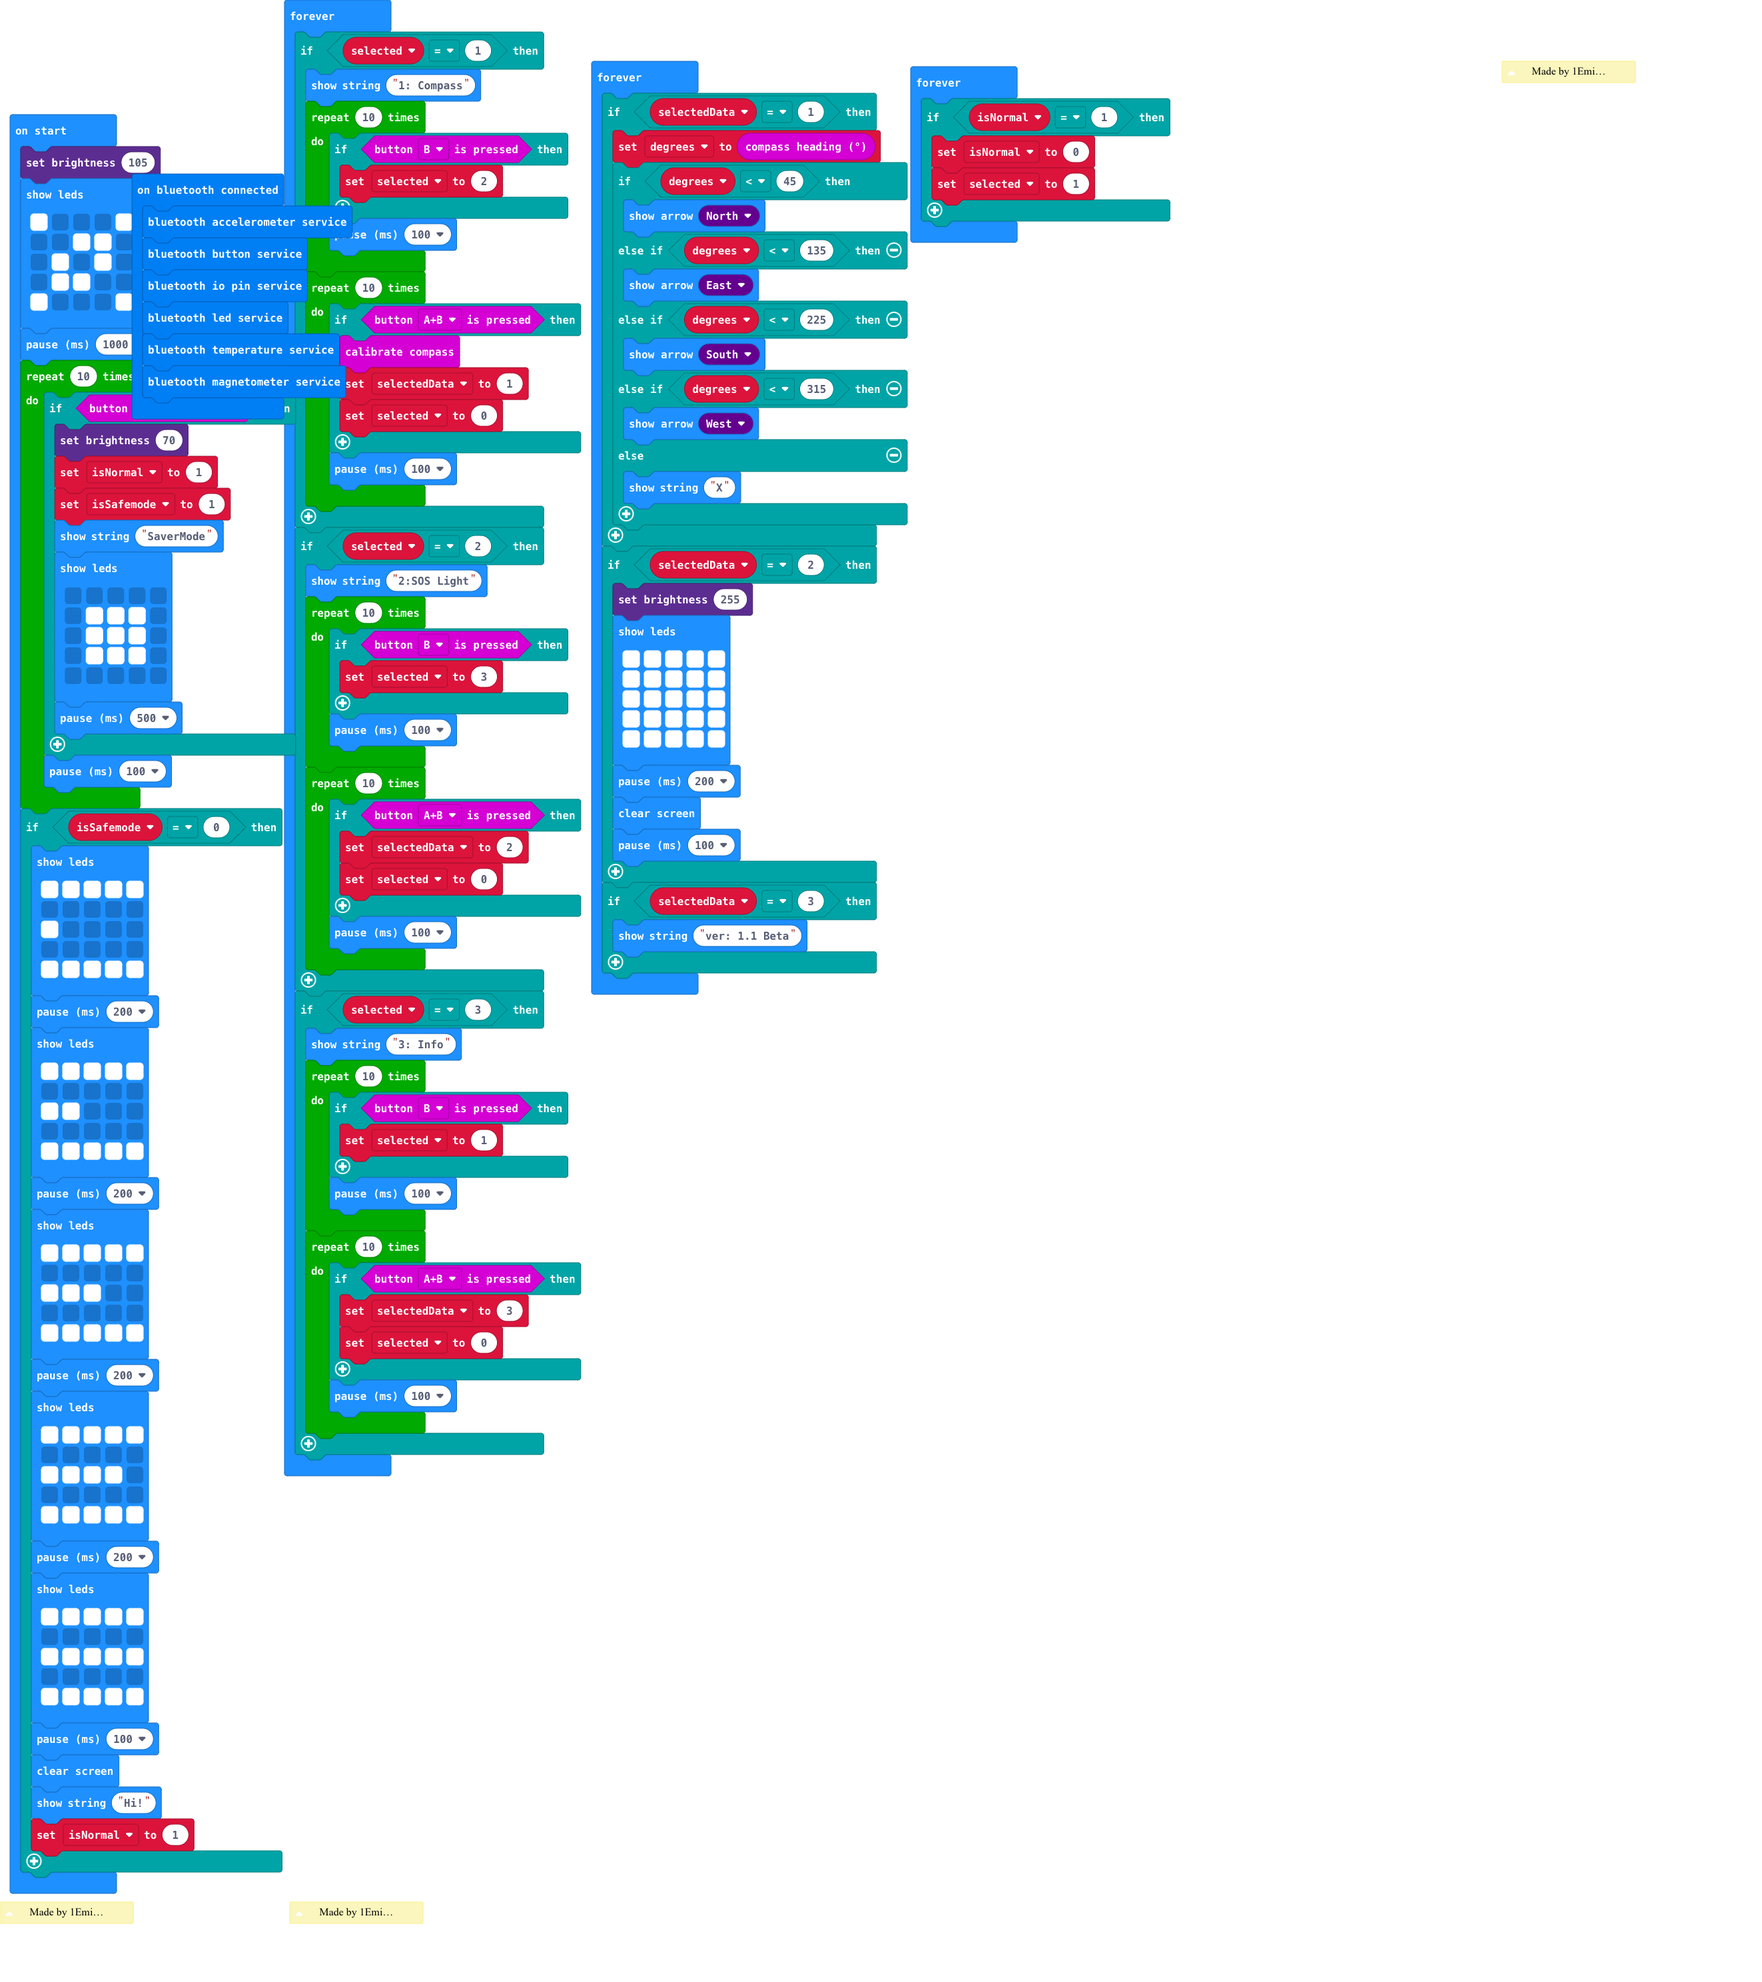
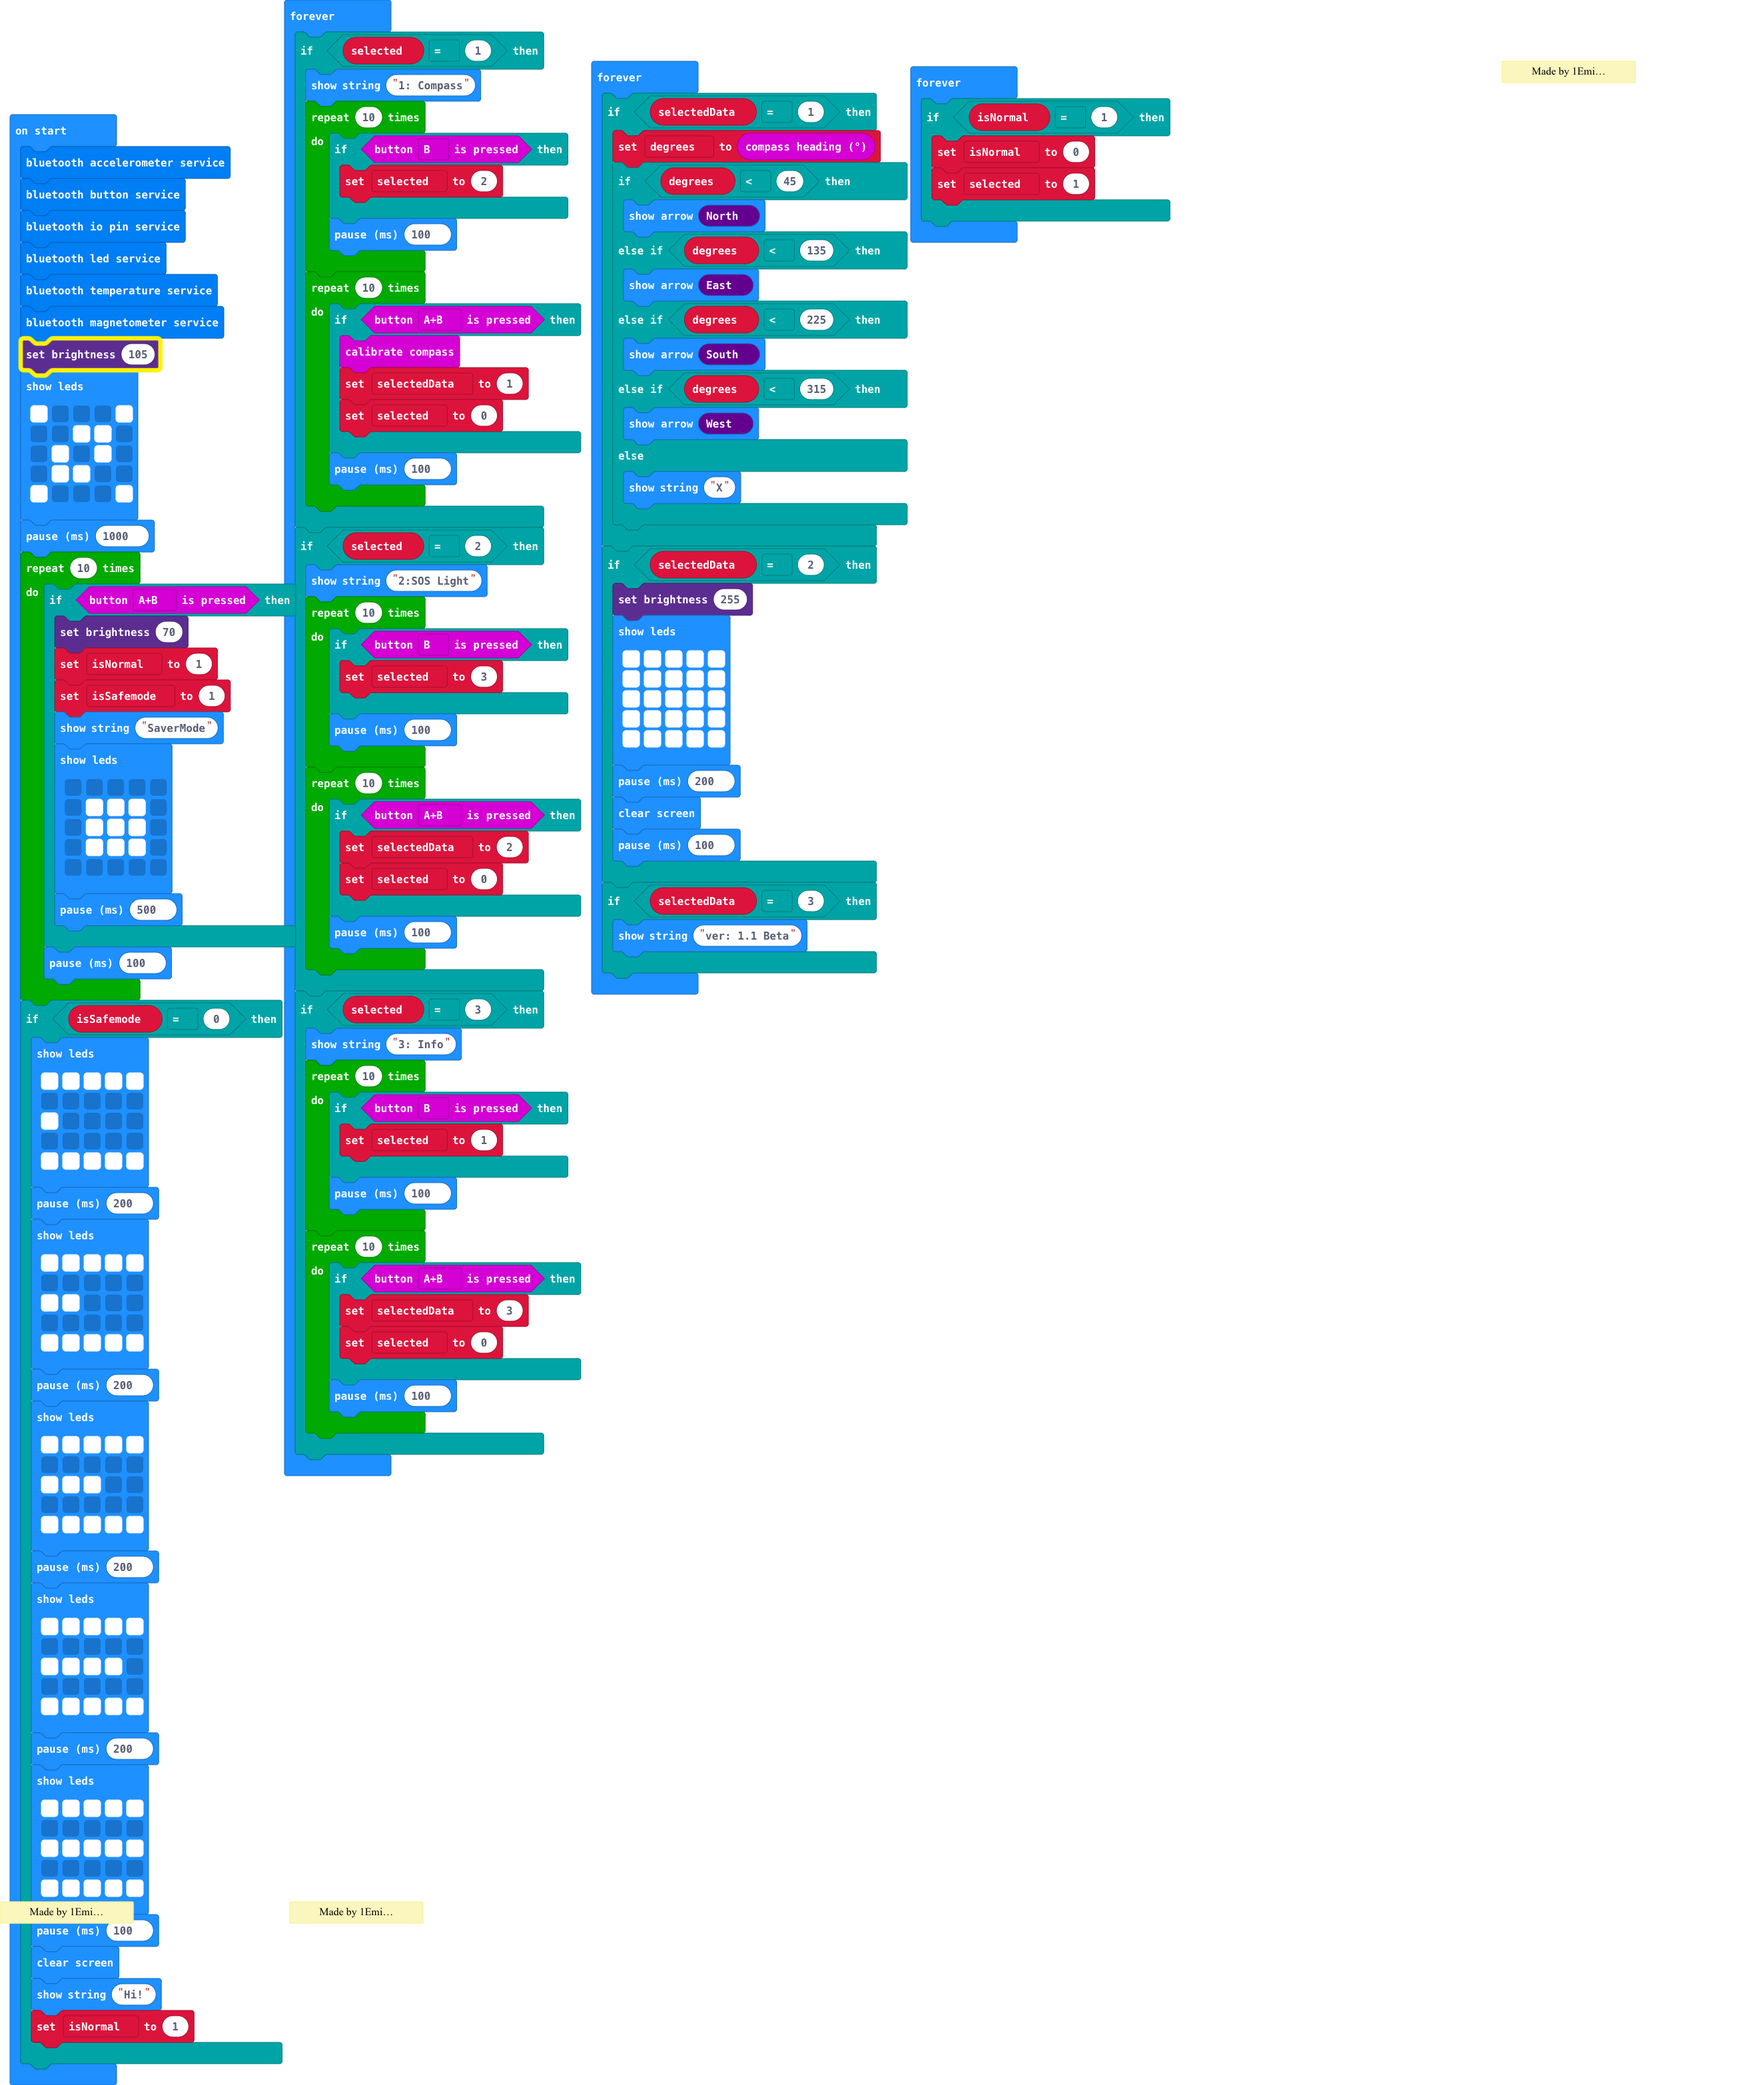
Not working for 1.0

Changed region(s): [[0.0, 0.0, 0.682, 1.0], [0.8681, 0.0312, 0.8991, 0.0625]]

diff --git a/main.ts b/main.ts
@@ -3,14 +3,6 @@
  * 
  * (do not steal, give me credits if u do)
  */
-bluetooth.onBluetoothConnected(function () {
-    bluetooth.startAccelerometerService()
-    bluetooth.startButtonService()
-    bluetooth.startIOPinService()
-    bluetooth.startLEDService()
-    bluetooth.startTemperatureService()
-    bluetooth.startMagnetometerService()
-})
 /**
  * Made by 1Emilis!
  * 
@@ -26,6 +18,12 @@ let selectedData = 0
 let selected = 0
 let isSafemode = 0
 let isNormal = 0
+bluetooth.startAccelerometerService()
+bluetooth.startButtonService()
+bluetooth.startIOPinService()
+bluetooth.startLEDService()
+bluetooth.startTemperatureService()
+bluetooth.startMagnetometerService()
 led.setBrightness(105)
 basic.showLeds(`
     # . . . #
